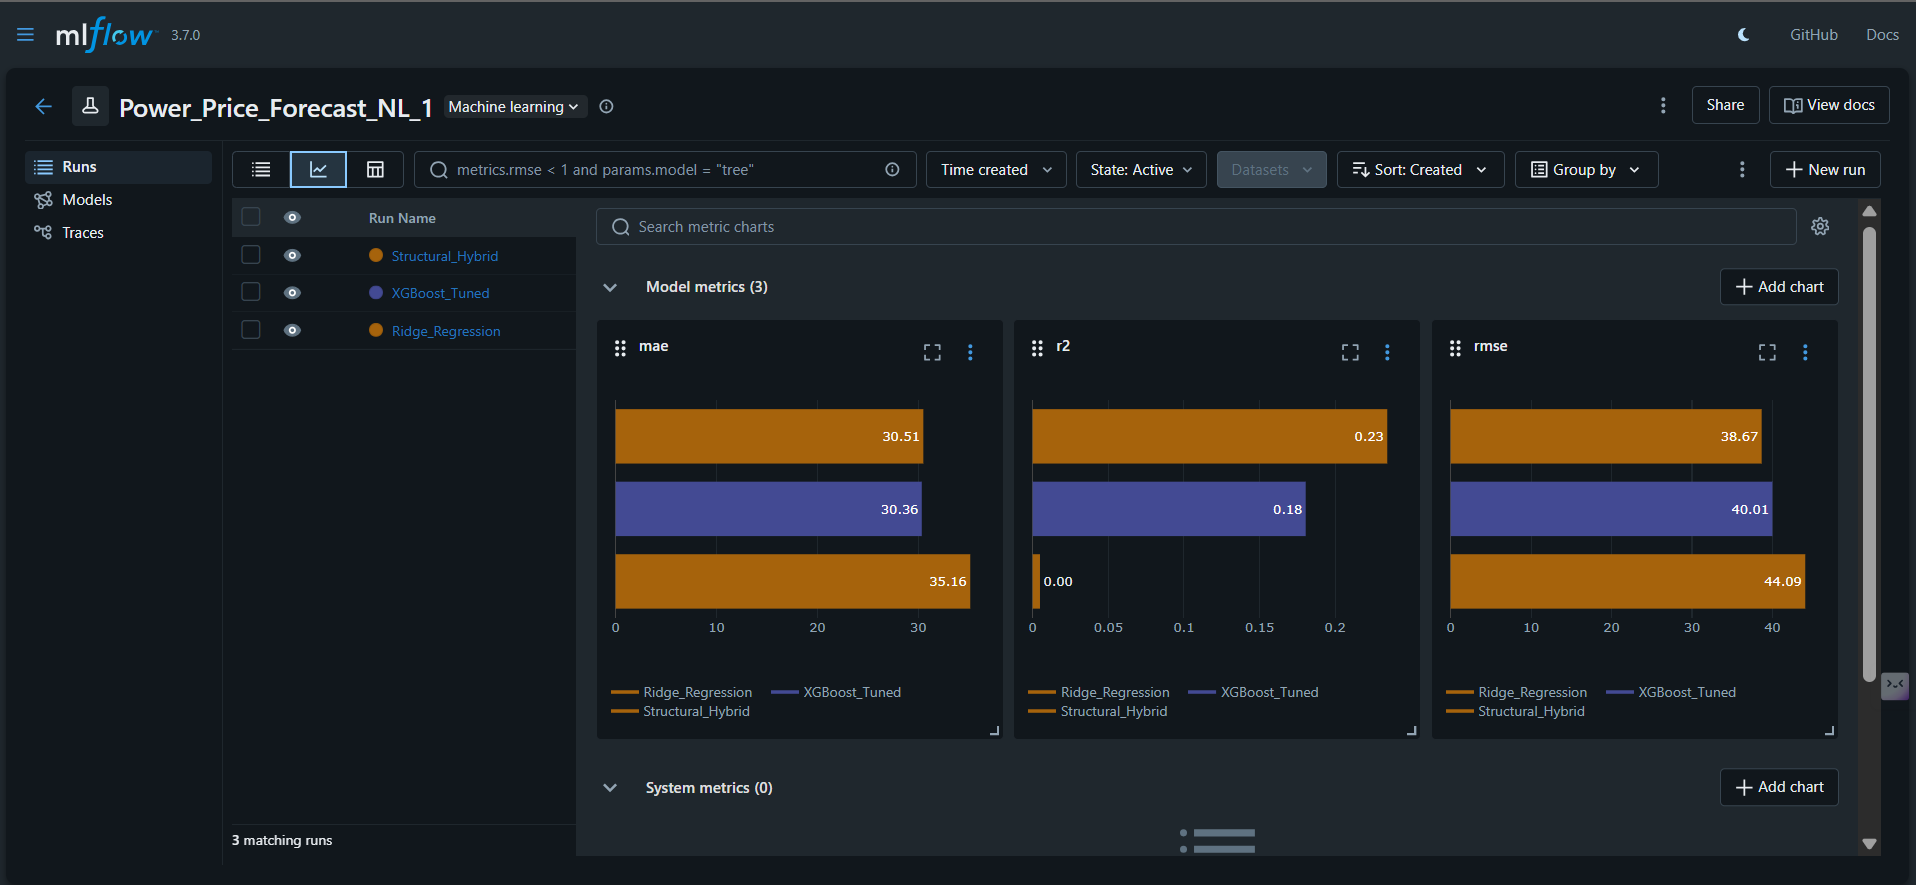
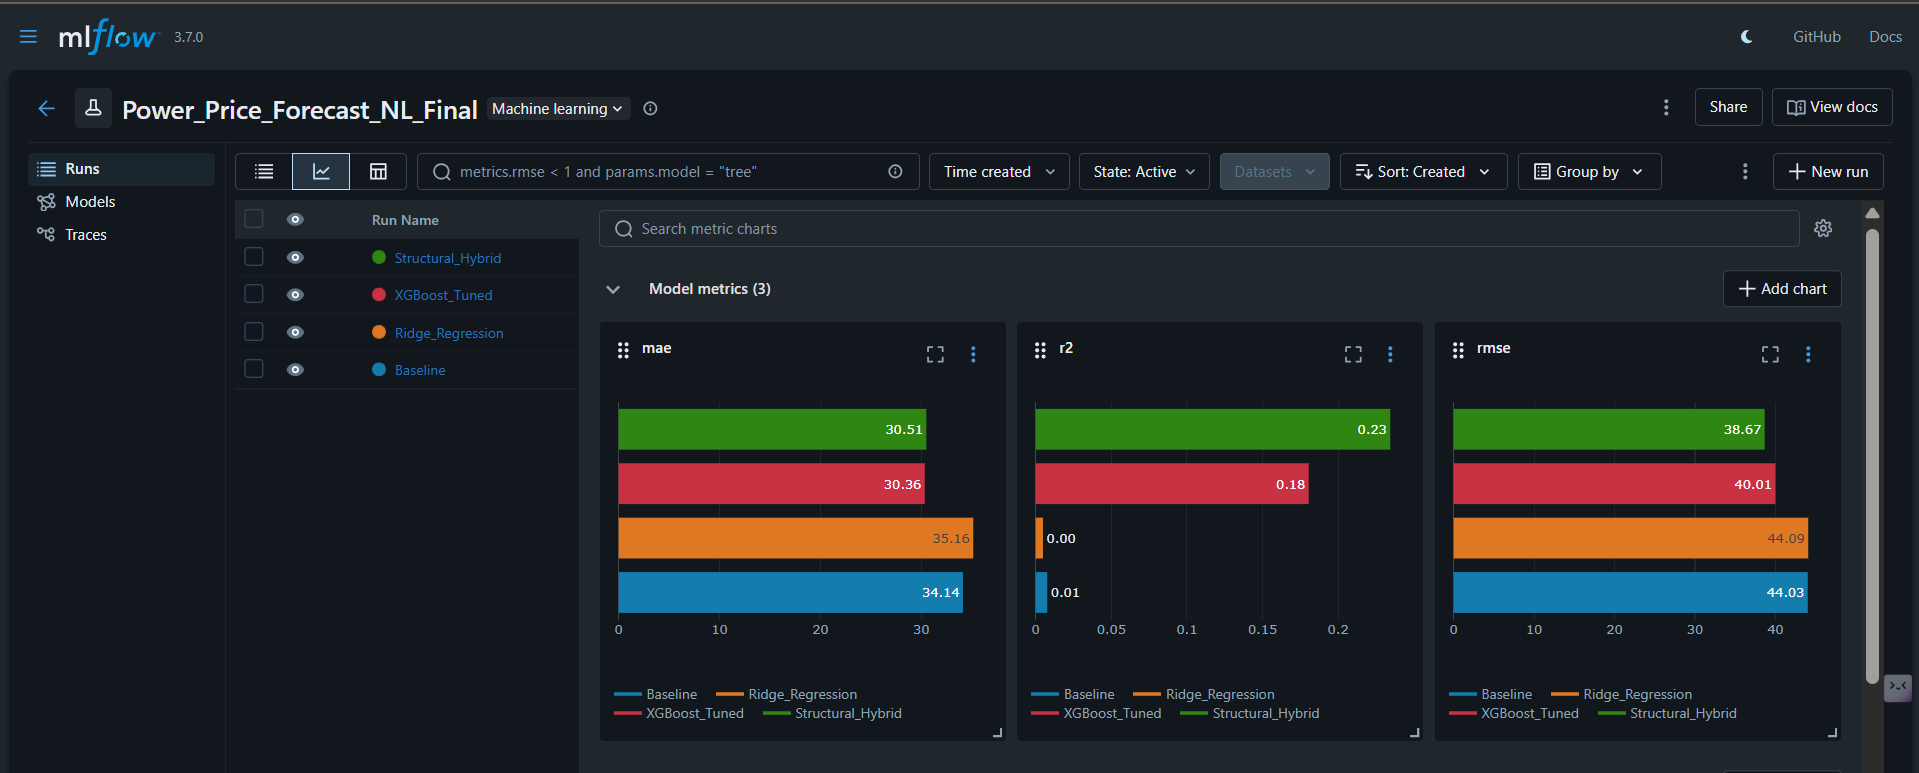
final submission

diff --git a/src/modeling.py b/src/modeling.py
@@ -28,7 +28,7 @@ from sklearn.base import BaseEstimator, RegressorMixin
 # =========================
 INPUT_FILE = "data/submission_data.csv"
 OUTPUT_FILE = "data/forecast_results.csv"
-MLFLOW_EXP_NAME = "Power_Price_Forecast_NL_1"
+MLFLOW_EXP_NAME = "Power_Price_Forecast_NL_Final"
 
 # =========================
 # 2. FEATURE ENGINEERING
@@ -110,18 +110,29 @@ def run_experiments():
 
     # Track Best Model
     best_mae = float('inf')
+    best_rmse = float('inf')
+    best_r2 = -float('inf')
     best_model_name = "None"
     best_preds = None
 
-    # --- 1. BASELINE ---
-    print("\n--- 1. Baseline (Seasonal Naive) ---")
-    base_preds = X_test['Price_Lag_168']
-    mae, rmse, r2 = evaluate_model(y_test, base_preds, "Baseline")
-    
-    if mae < best_mae:
-        best_mae = mae
-        best_model_name = "Baseline"
-        best_preds = base_preds
+    # --- 1. BASELINE (Now logged to MLflow!) ---
+    with mlflow.start_run(run_name="Baseline"):
+        print("\n--- 1. Baseline (Seasonal Naive) ---")
+        base_preds = X_test['Price_Lag_168']
+        mae, rmse, r2 = evaluate_model(y_test, base_preds, "Baseline")
+        
+        # Log metrics so they appear in the UI comparison
+        mlflow.log_metric("mae", mae)
+        mlflow.log_metric("rmse", rmse)
+        mlflow.log_metric("r2", r2)
+        mlflow.log_param("model_type", "Naive_Lag_168")
+        
+        if mae < best_mae:
+            best_mae = mae
+            best_rmse = rmse
+            best_r2 = r2
+            best_model_name = "Baseline"
+            best_preds = base_preds
 
     # --- 2. RIDGE REGRESSION ---
     with mlflow.start_run(run_name="Ridge_Regression"):
@@ -135,9 +146,12 @@ def run_experiments():
         mlflow.log_metric("mae", mae)
         mlflow.log_metric("rmse", rmse)
         mlflow.log_metric("r2", r2)
+        mlflow.log_param("model_type", "Linear_Ridge")
         
         if mae < best_mae:
             best_mae = mae
+            best_rmse = rmse
+            best_r2 = r2
             best_model_name = "Ridge_Regression"
             best_preds = preds
 
@@ -146,7 +160,7 @@ def run_experiments():
         print("\n--- 3. XGBoost (RandomizedSearchCV) ---")
         xgb_model = xgb.XGBRegressor(n_jobs=-1, random_state=42)
         tscv = TimeSeriesSplit(n_splits=3)
-        # Fast Grid Search
+        
         param_dist = {'n_estimators': [500], 'learning_rate': [0.05], 'max_depth': [5]} 
         
         search = RandomizedSearchCV(xgb_model, param_dist, n_iter=1, cv=tscv, scoring='neg_mean_absolute_error')
@@ -158,9 +172,13 @@ def run_experiments():
         mlflow.log_metric("mae", mae)
         mlflow.log_metric("rmse", rmse)
         mlflow.log_metric("r2", r2)
+        mlflow.log_params(search.best_params_)
+        mlflow.log_param("model_type", "Tree_Ensemble")
 
         if mae < best_mae:
             best_mae = mae
+            best_rmse = rmse
+            best_r2 = r2
             best_model_name = "XGBoost"
             best_preds = preds
 
@@ -179,16 +197,23 @@ def run_experiments():
         mlflow.log_metric("mae", mae)
         mlflow.log_metric("rmse", rmse)
         mlflow.log_metric("r2", r2)
+        mlflow.log_param("model_type", "Hybrid_Linear_Tree")
         
         if mae < best_mae:
             best_mae = mae
+            best_rmse = rmse
+            best_r2 = r2
             best_model_name = "Structural_Hybrid"
             best_preds = preds
 
     # =========================
     # 5. SAVE WINNER
     # =========================
-    print(f"\n🏆 The Winner is: {best_model_name} (MAE: {best_mae:.2f})")
+    print(f"\n🏆 The Winner is: {best_model_name}")
+    print(f"   MAE:  {best_mae:.2f} EUR")
+    print(f"   RMSE: {best_rmse:.2f} EUR")
+    print(f"   R2:   {best_r2:.3f}")
+    
     print(f"💾 Saving forecast to {OUTPUT_FILE}...")
     
     results = pd.DataFrame({

diff --git a/src/trading_signal.py b/src/trading_signal.py
@@ -13,7 +13,7 @@ INPUT_FILE = "data/forecast_results.csv"
 OUTPUT_SIGNAL = "outputs/trading_view.txt"
 
 def generate_signal():
-    print("💰 Generating Trading Signal...")
+    print("💰 Generating Trading Signal (Rolling 7-Day Strategy)...")
     
     try:
         df = pd.read_csv(INPUT_FILE, index_col=0, parse_dates=True)
@@ -21,31 +21,54 @@ def generate_signal():
         print(f"❌ Error: {e}")
         return
 
-    # LOGIC:
-    # If the Forecast Price is significantly LOWER than the average, we BUY (Long).
-    # If the Forecast Price is significantly HIGHER, we SELL (Short).
+    # LOGIC UPDATE: Compare "Tomorrow" vs "Last 7 Days"
+    # We simulate this by taking the LAST 24 hours of our data as "Tomorrow"
+    # and the 168 hours (7 days) BEFORE that as the "Baseline".
     
-    avg_price = df['Forecast'].mean()
-    next_24h = df['Forecast'].iloc[:24].mean()
+    # 1. Select the relevant windows
+    tomorrow_view = df.iloc[-24:] # The final day in our dataset
+    history_view = df.iloc[-192:-24] # The 7 days prior to that final day
     
-    signal = "NEUTRAL"
-    if next_24h < avg_price * 0.9:
+    if len(history_view) < 168:
+        print("⚠ Not enough data for 7-day rolling comparison. Using available history.")
+    
+    # 2. Calculate Metrics
+    forecast_price = tomorrow_view['Forecast'].mean()
+    baseline_price = history_view['Actual'].mean() # Compare against what actually happened recently
+    
+    # 3. Define Thresholds (e.g., +/- 5% deviation)
+    threshold = 0.05 
+    
+    signal = "NEUTRAL ⚪"
+    reason = "Price is within normal 7-day range."
+    
+    if forecast_price < baseline_price * (1 - threshold):
         signal = "LONG (BUY) 🟢"
-        reason = "Prices are forecast to be 10% below average."
-    elif next_24h > avg_price * 1.1:
+        diff = (1 - forecast_price/baseline_price) * 100
+        reason = f"Forecast is {diff:.1f}% CHEAPER than the 7-day average."
+    elif forecast_price > baseline_price * (1 + threshold):
         signal = "SHORT (SELL) 🔴"
-        reason = "Prices are forecast to be 10% above average."
-    else:
-        reason = "Prices are stable."
+        diff = (forecast_price/baseline_price - 1) * 100
+        reason = f"Forecast is {diff:.1f}% MORE EXPENSIVE than the 7-day average."
 
+    # 4. Generate Report
+    target_date = tomorrow_view.index[0].strftime('%Y-%m-%d')
+    
     report = [
         "TRADING SIGNAL REPORT",
-        "="*30,
-        f"Signal: {signal}",
-        f"Reason: {reason}",
-        f"Next 24h Avg Price: €{next_24h:.2f}",
-        f"Market Avg Price:   €{avg_price:.2f}",
-        "="*30
+        "="*40,
+        f"Target Date:       {target_date}",
+        f"Strategy:          Mean Reversion (vs 7-Day Rolling Avg)",
+        "-"*40,
+        f"Signal:            {signal}",
+        f"Reason:            {reason}",
+        "-"*40,
+        f"Forecast Price:    €{forecast_price:.2f}",
+        f"7-Day Baseline:    €{baseline_price:.2f}",
+        "="*40,
+        "\nInvalidation Logic:",
+        "Discard signal if real-time Interconnector capacity drops >500MW",
+        "after 10:00 UTC, as this changes the fundamental supply curve."
     ]
     
     os.makedirs("outputs", exist_ok=True)
